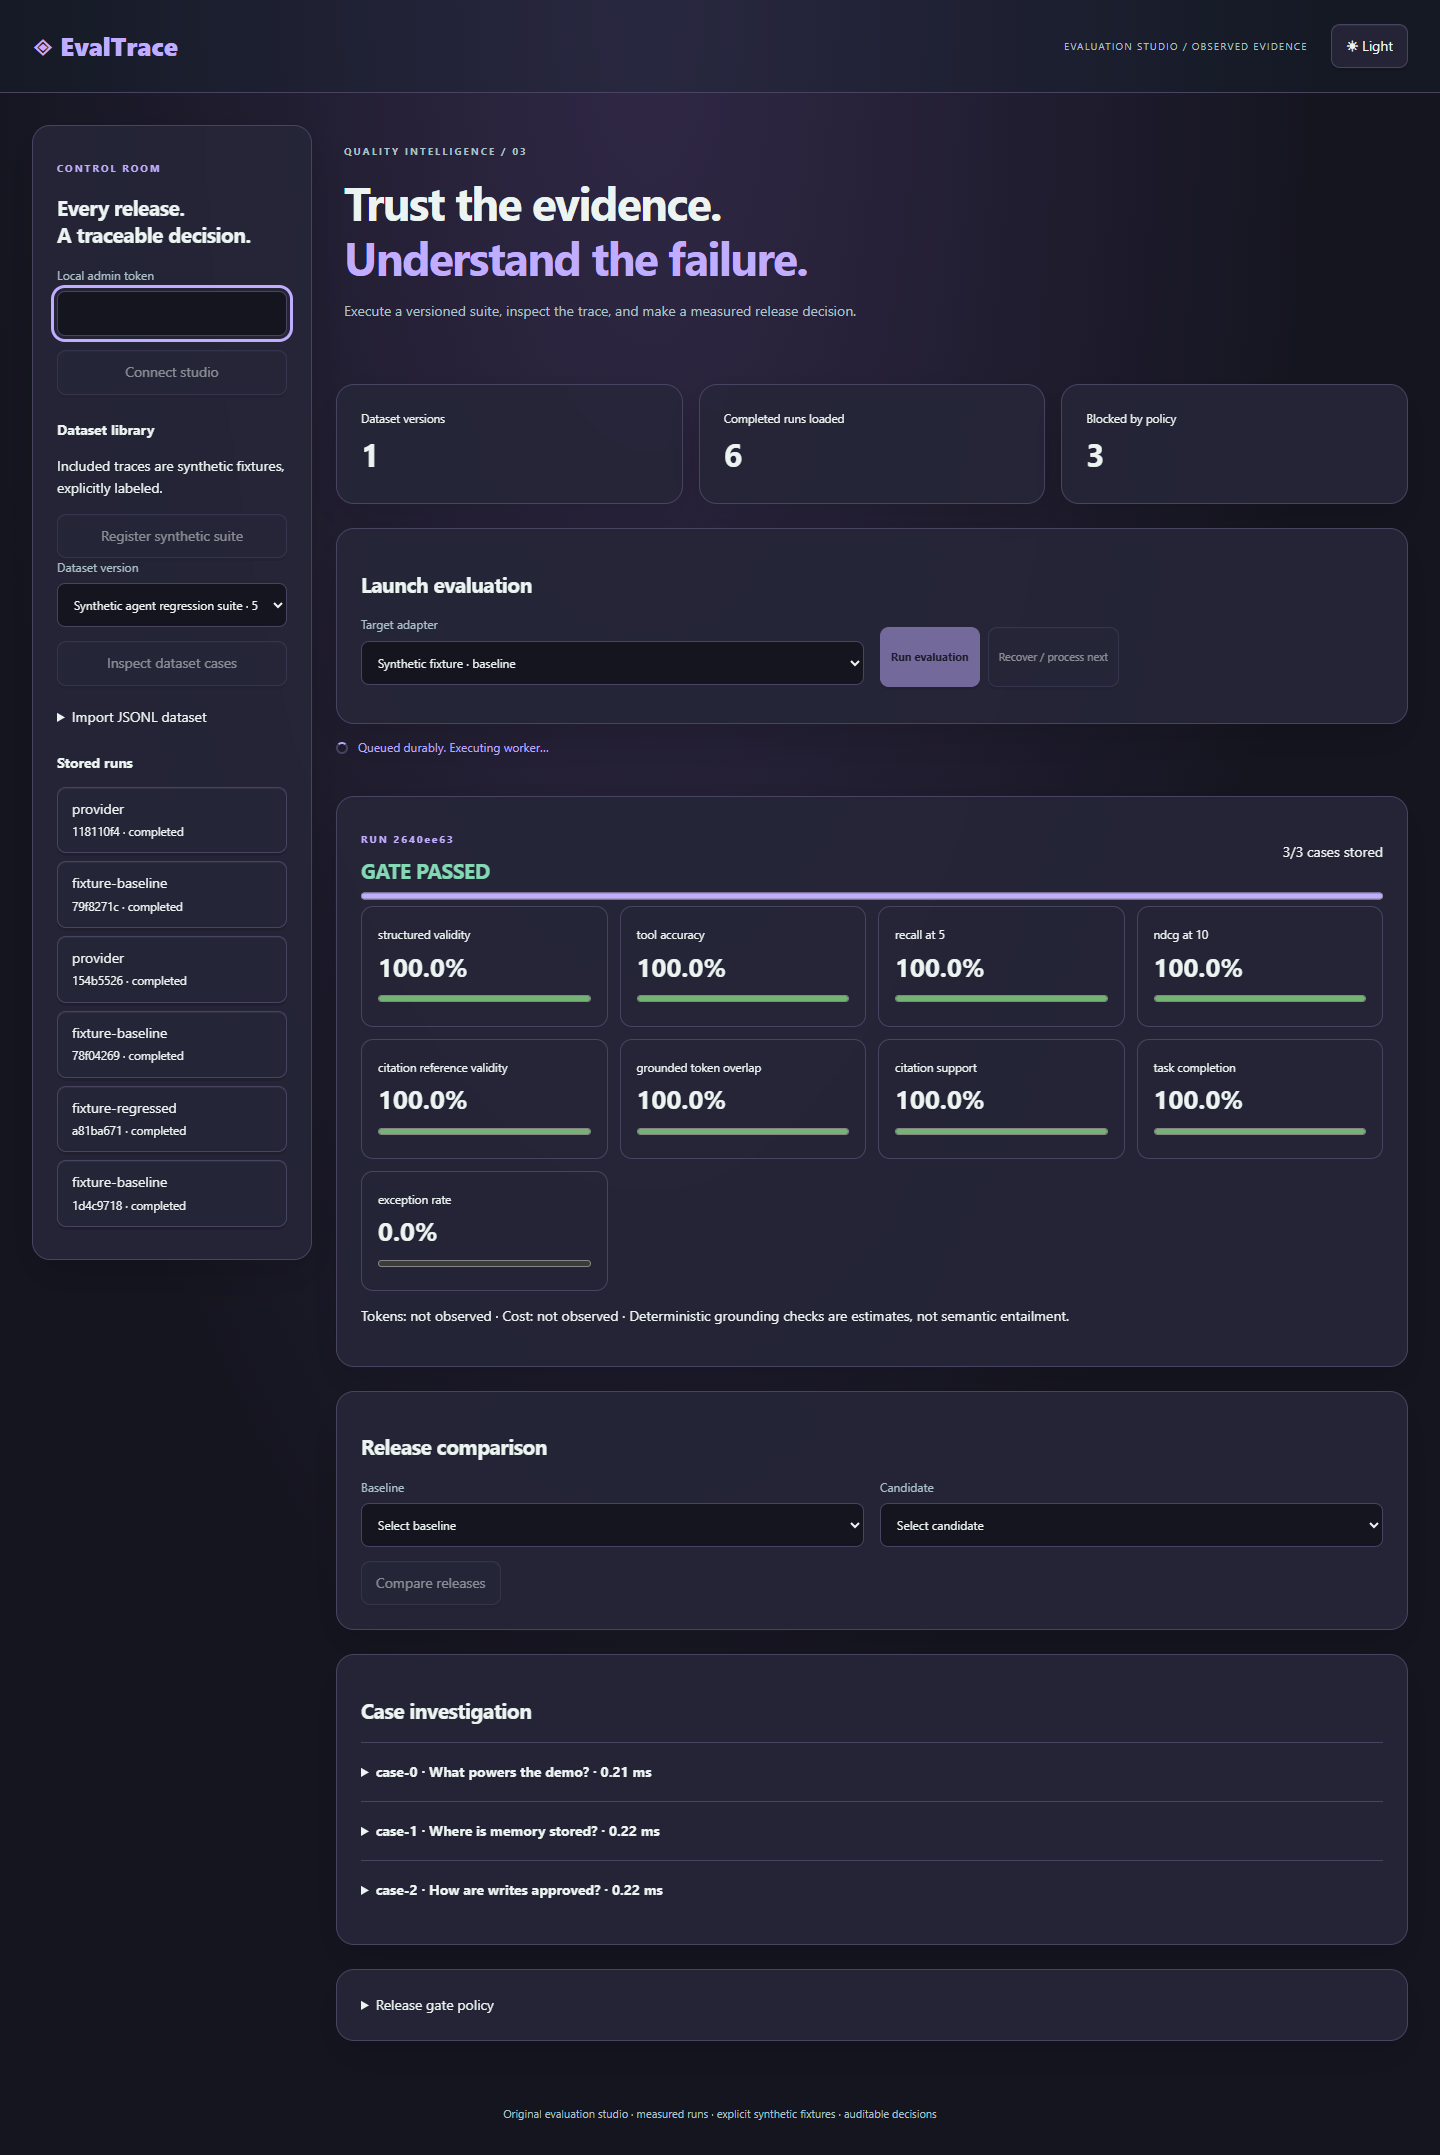
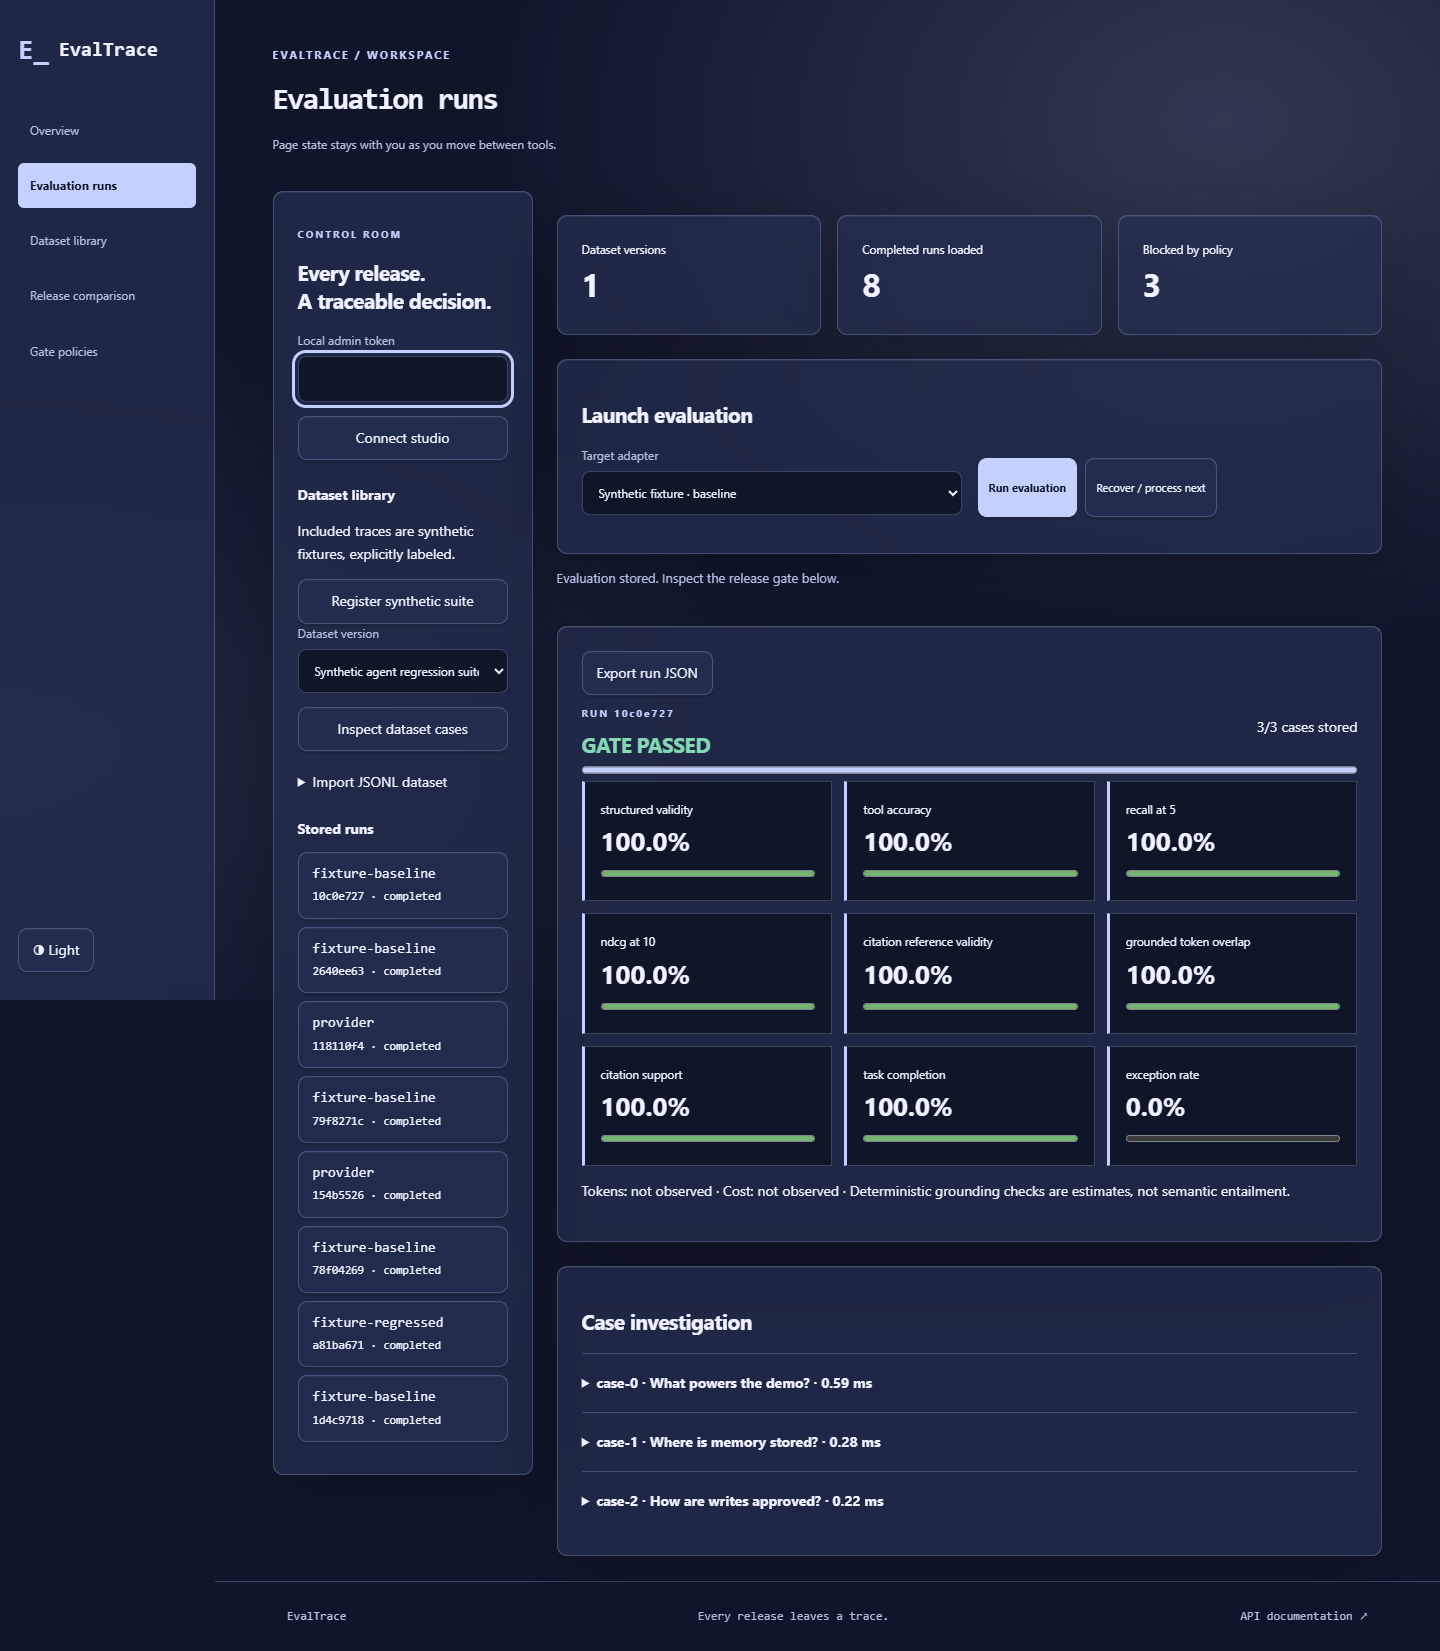
Phase 4: verify redesigned pages on mobile and production

diff --git a/tests/browser_journey.py b/tests/browser_journey.py
@@ -64,6 +64,9 @@ with (
                 page.goto(base, wait_until="networkidle")
                 expect(page.get_by_role("heading", name="Before you ship, see the evidence.")).to_be_visible()
                 page.screenshot(path=str(assets / "landing.png"), full_page=True)
+                page.set_viewport_size({"width": 390, "height": 844})
+                assert page.evaluate("document.documentElement.scrollWidth <= innerWidth")
+                page.set_viewport_size({"width": 1440, "height": 1000})
                 page.get_by_role("link", name="Open control room", exact=False).click()
                 page.get_by_role("button", name="Connect studio").click()
                 expect(page.get_by_role("alert")).to_contain_text("Invalid admin token")

diff --git a/docs/FRONTEND_REDESIGN.md b/docs/FRONTEND_REDESIGN.md
@@ -1,0 +1,31 @@
+# Frontend redesign — 25 November 2026
+
+## Distinct product identity
+
+Indigo / slate, persistent navigation rail, release pipeline illustration.
+
+Pages: Overview, Evaluation runs, Dataset library, Release comparison, Gate policies.
+
+Additional controls: Run-result JSON export; dedicated dataset guidance.
+
+Routes use URL hash navigation and support direct links/reloads without colliding with backend API paths. The stateful workspace stays mounted during navigation; credentials are not placed in URLs. The landing page does not initialize a workspace until opened. Existing working API workflows remain available.
+
+## Verification
+
+- TypeScript, ESLint, frontend unit tests and Vite build passed.
+- Full local Chrome workflow passed after the redesign, including the added page navigation and export checks.
+- Landing and workspace layouts checked at 390px; no horizontal overflow in the tested views.
+- Production Chrome checks passed: landing, direct links and reloads for each dedicated page, theme switching, and the existing application workflow.
+- No JavaScript page errors observed in the production journey.
+- New production landing/workspace screenshots and local light/mobile screenshots captured.
+- Initial PrefLoom mobile check found an overflowing decorative orbit. The illustration was contained; new regression assertions and production rerun passed.
+
+Phase implementation commit: `cb1e81a`. That phase was pushed before proceeding to the next project. The final verification phase publishes these reports and refreshed screenshots separately.
+
+These are frontend checks. Earlier database, model and Docker evidence remains in TEST_REPORT.md; this redesign does not create new benchmark scores or change the evaluated provider's quality gate.
+
+![Production landing](assets/production-landing.png)
+
+![Production workspace](assets/production-desktop.png)
+
+[Mobile landing](assets/landing-mobile.png)

diff --git a/README.md b/README.md
@@ -12,13 +12,13 @@ EvalTrace is an evaluation studio for immutable datasets, typed traces and repro
 
 An indigo glass control room with a persistent side rail, a dedicated landing page, Evaluation runs, Dataset library, Release comparison, and Gate policies. Export observed run results as JSON without changing their scores.
 
-![New EvalTrace landing page](docs/assets/landing.png)
+![New EvalTrace landing page](docs/assets/production-landing.png)
 
 ## Production preview
 
 ![EvalTrace running on Vercel](docs/assets/production-desktop.png)
 
-Captured from the deployed application. The galleries below show separately captured local test journeys.
+Captured from the redesigned application deployed on 25 November 2026. The galleries below show separately captured local test journeys.
 
 <details>
 <summary>View light theme and mobile screenshots</summary>
@@ -199,3 +199,5 @@ The integration suite requires an isolated real PostgreSQL `TEST_DATABASE_URL`; 
 First-party application code, interface designs and fixtures are original to this project. Dependencies and model artifacts retain their third-party notices. No first-party project license has been selected.
 
 Development is published on `feat/durable-evaluation-react` through [PR #1](https://github.com/Kanishkar843/EvalTrace-/pull/1), preserving existing `main` history. Deployment status, software acceptance and evaluated-model quality are reported separately.
+
+[Frontend redesign and verification](docs/FRONTEND_REDESIGN.md)

diff --git a/docs/TEST_REPORT.md b/docs/TEST_REPORT.md
@@ -29,3 +29,7 @@ Published branch: `feat/durable-evaluation-react`; [PR](https://github.com/Kanis
 ## Production verification — 2026-11-24
 
 See [CLOUD_DELIVERY](CLOUD_DELIVERY.md) for actual Vercel, Neon, provider, browser and model results. Earlier local results above retain their original scope.
+
+## Frontend redesign — 2026-11-25
+
+Distinct landing pages, dedicated navigation, functional exports and responsive glass interfaces verified locally and in production. See [redesign evidence](FRONTEND_REDESIGN.md).
